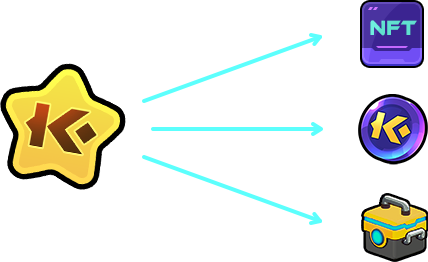
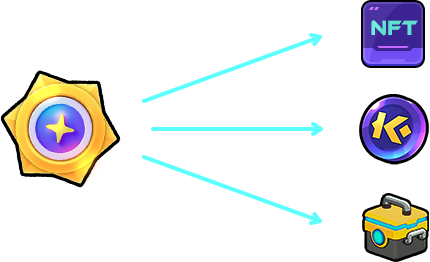
update img

diff --git a/src/components/Home/main.tsx b/src/components/Home/main.tsx
@@ -57,7 +57,38 @@ export default function Main() {
           <div className="w-full flex-1 min-h-[300px] flex items-center">
             <div className="w-full pt-12">
               <div className="main-logo">
-                <img className="w-100 md:w-[560px] animate__animated animate__fadeInUp text-[#6E4DFF]" src="/images/logo.png" alt="" />
+                <svg version="1.1"
+                  xmlns="http://www.w3.org/2000/svg"
+                  xmlnsXlink="http://www.w3.org/1999/xlink"
+                  x="0px"
+                  y="0px"
+                  viewBox="73 89 355 43"
+                  width="568"
+                  height="68"
+                  xmlSpace="preserve"
+                >
+                  <style type="text/css">{`
+                    .st0 { fill-rule:evenodd; clip-rule:evenodd; fill:#FEBD32; }
+                    .st1 { fill:#FFFFFF; }
+                    .st2 { fill-rule:evenodd; clip-rule:evenodd; fill:#FFFFFF; }
+                  `}</style>
+                  <g>
+                    <rect x="73" y="91" className="st0" width="12" height="40" />
+                    <polygon className="st0" points="106,91 123,91 103,111 123,131 106,131 86,111" />
+                    <rect x="253" y="91" className="st0" width="12" height="40" />
+                    <polygon className="st0" points="286,91 303,91 283,111 303,131 286,131 266,111" />
+                    <path
+                      className="st1"
+                      d="M230,91h-29l-6,10h35c4,0,6,2,6,5s-2,5-6,5h-35v20h12v-10h23c13,0,18-8,18-15S243,91,230,91z"
+                    />
+                    <path
+                      className="st1"
+                      d="M410,91h-29l-6,10h35c4,0,6,2,6,5s-2,5-6,5h-35v20h12v-10h23c13,0,18-8,18-15S423,91,410,91z"
+                    />
+                    <polygon className="st2" points="356,131 339,110 322,131 305,131 339,89 373,131" />
+                    <polygon className="st2" points="159,110 142,131 125,131 159,89 193,131 176,131" />
+                  </g>
+                </svg>
               </div>
               <div className="title-text-bottom mt-7">
                 <span className="inline-block animate__animated animate__fadeInUp text-[#8A84A3] text-[16px] md:text-[18px]">{t('main.desc')}</span>
